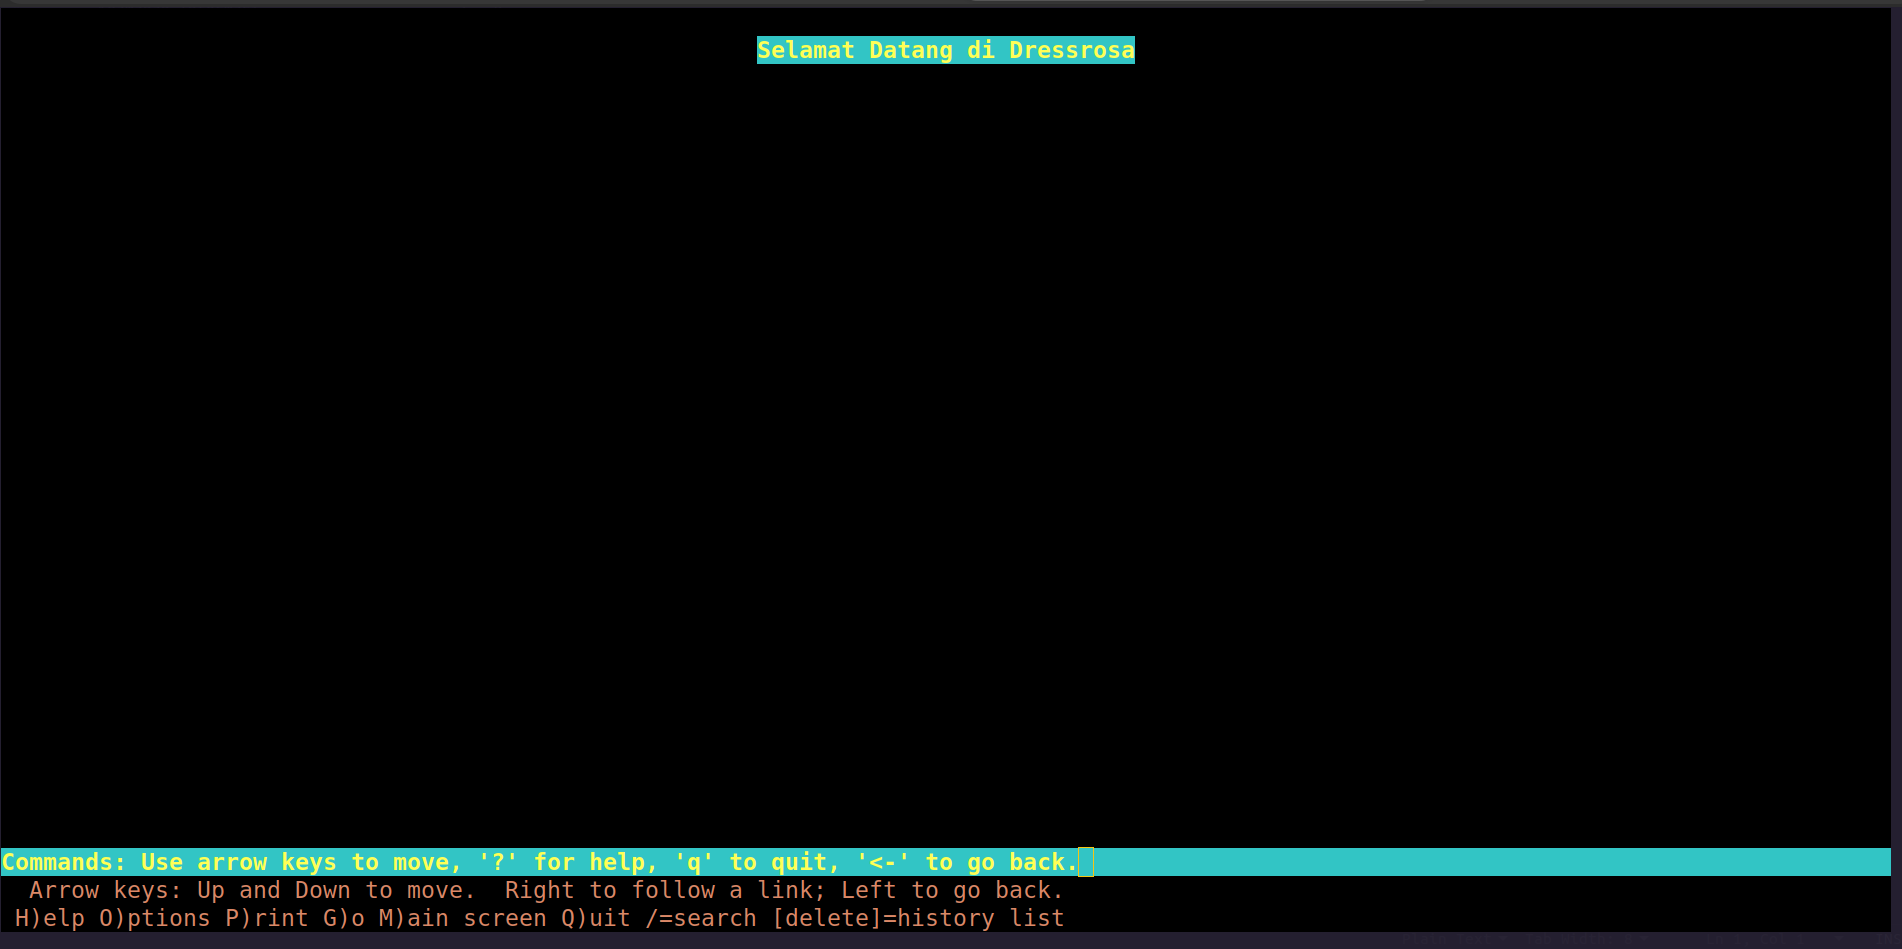
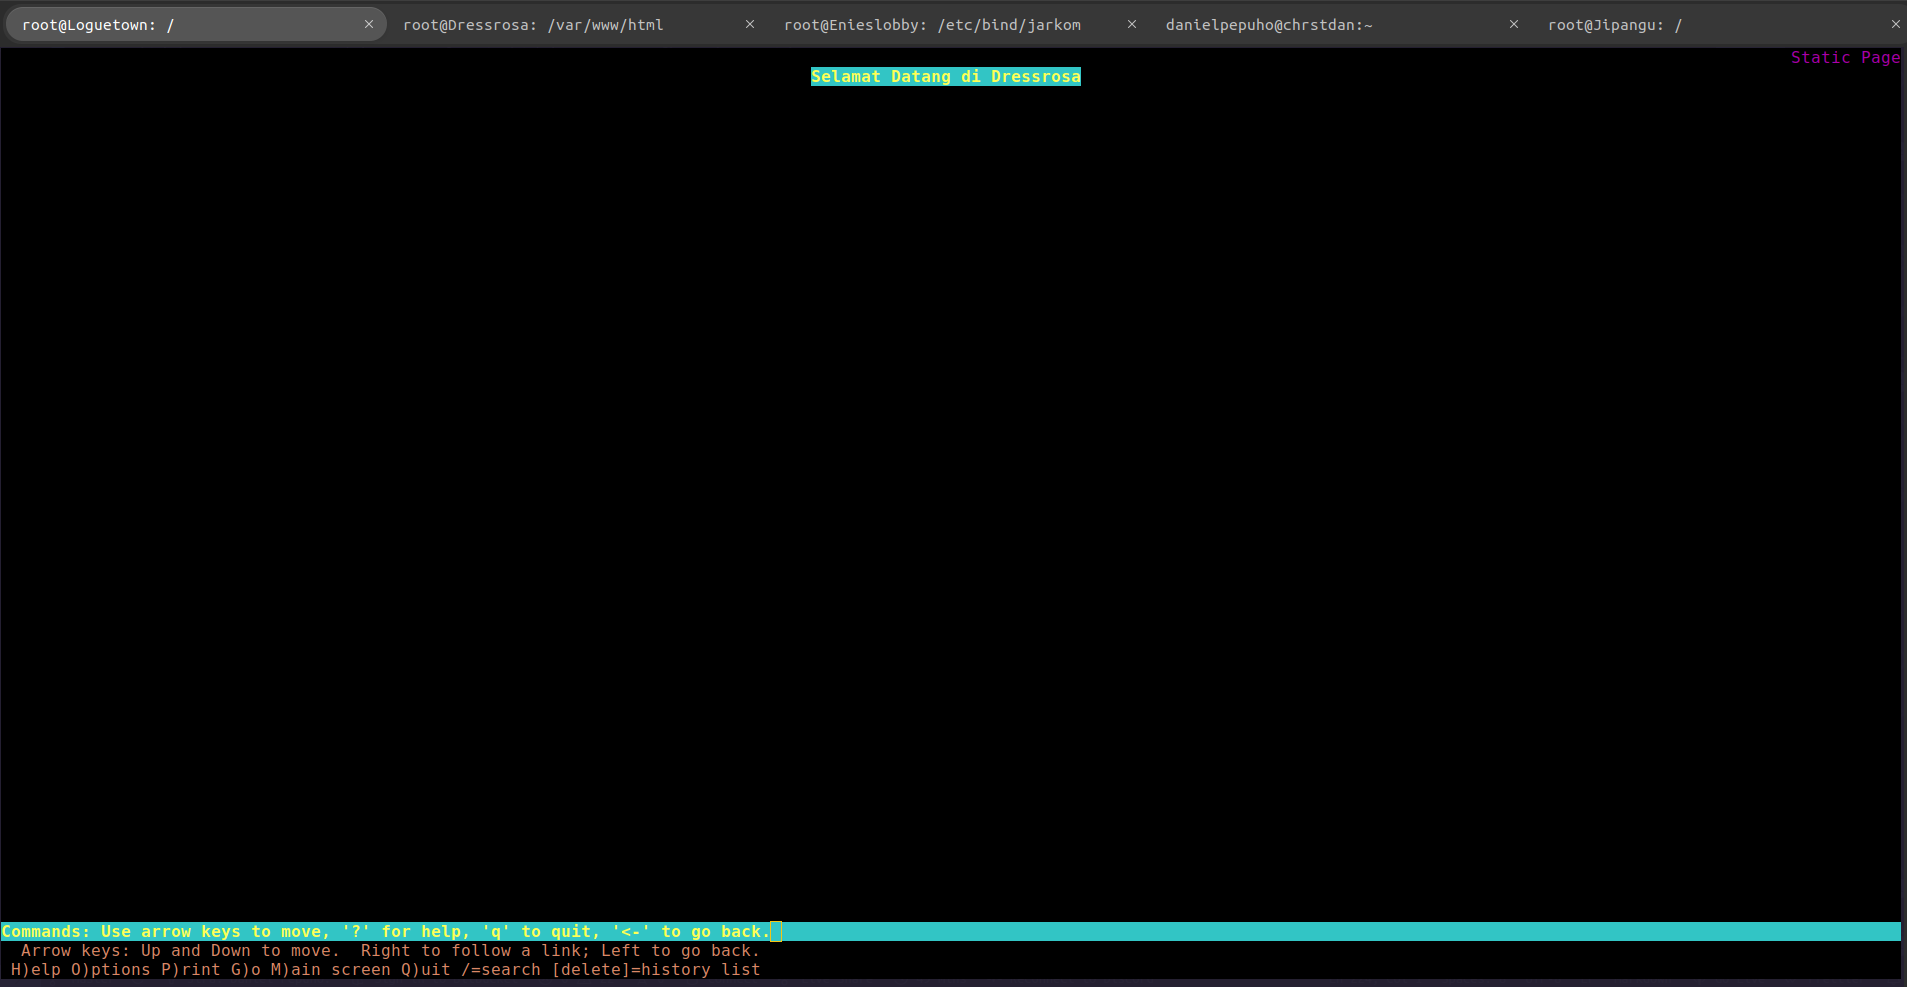
chore: analisa log

Changed region(s): [[0.0, 0.0, 1.0, 1.0]]

diff --git a/Modul-3/Reverse Proxy/README.md b/Modul-3/Reverse Proxy/README.md
@@ -99,20 +99,32 @@ Step 2 - Cek menggunakan lynx
 
 ![Lynx](img/lynx-nginx-1.png)
 
-Step 3 - Lakukan pengujian dengan membuat file index.html di direktori `/var/www/html`.
+#### A. Membuat Halaman Statis
 
-```bash
-<h1>Selamat Datang di Dressrosa</h1>
+Step 1 - Masuk ke `/var/www/html`, lalu buat buat suatu file HTML baru dengan nama `index.html`. Silahkan gunakan text editor yang ada seperi nano atau vim.
+
+```html
+!DOCTYPE html>
+<html lang="en">
+<head>
+    <meta charset="UTF-8">
+    <meta name="viewport" content="width=device-width, initial-scale=1.0">
+    <title>Static Page</title>
+</head>
+<body>
+    <h1>Selamat Datang di Dressrosa</h1>
+</body>
+</html>
 ```
 
-Step 4 - Ganti `server name` di `/etc/nginx/sites-available/default` dengan domain utama yang telah dibuat sebelumnya di
+Step 2 - Ganti `server name` di `/etc/nginx/sites-available/default` dengan domain utama yang telah dibuat sebelumnya di
 [modul persiapan](../prerequisite.md).
 
 ```bash
 server_name jarkom.site;
 ```
 
-Step 4 - Lakukan pengujian lagi, maka akan muncul halaman yang berbeda dari halaman sebelumnya.
+Step 3 - Lakukan pengujian lagi, maka akan muncul halaman yang berbeda dari halaman sebelumnya.
 
 ```bash
 lynx jarkom.site/index.html
@@ -120,7 +132,7 @@ lynx jarkom.site/index.html
 
 ![Lynx PHP](img/lynx-nginx-3.png)
 
-### 2.2.3 Integrasi dengan PHP
+#### B. Membuat Halaman Dinamis Menggunakan PHP
 
 Step 1 - Masih di Dressrosa, coba lakukan instalasi PHP
 
@@ -130,15 +142,49 @@ apt-get install php php-fpm
 
 Step 2 - Buat script sederhana menggunakan PHP
 
-Masuk ke direktori `/var/www/html`, lalu buat file index.php:
+Masuk ke direktori `/var/www/html`, lalu buat file `index.php`:
 
 ```php
-<?php
-$hostname = gethostname();
+<!DOCTYPE html>
+<html lang="en">
+<head>
+    <meta charset="UTF-8">
+    <meta name="viewport" content="width=device-width, initial-scale=1.0">
+    <title>Dynamics Page</title>
+    <link rel="stylesheet" href="style.css">
+</head>
+<body>
+    <div class="container">
+        <center>
+            <?php
+                $hostname = gethostname();
+                echo "Hello World!<br>";
+                echo "Selamat datang di: $hostname<br>";
+            ?>
+        </center>
+    </div>
+</body>
+</html>
+```
 
-echo "Hello World!<br>";
-echo "Selamat datang di: $hostname<br>";
-?>
+Step 3 - Masih di direktori yang sama coba buat file CSS dengan nama `style.css`
+
+```css
+body {
+    display: flex;
+    align-items: center;
+    height: 100vh;
+    margin: 0;
+    font-family: Arial, sans-serif;
+}
+
+.container {
+    text-align: center;
+    max-width: 600px;
+    padding: 20px;
+    border: 1px solid #ccc;
+    background-color: #f9f9f9;
+}
 ```
 
 Step 3 - Edit default file nginx di `/etc/nginx/sites-available/default`
@@ -174,6 +220,38 @@ lynx jarkom.site/index.php
 ```
 
 ![Lynx PHP](img/lynx-nginx-2.png)
+
+#### Kesimpulan
+
+Dari dua percobaan diatas, yaitu dengan menggunakan halaman statis dan dinamis dapat disimpulkan bahwa:
+
+- `Proses di sisi server` -  Halaman dinamis memerlukan pemrosesan di sisi server sebelum konten dikirim ke browser. Ini termasuk eksekusi kode PHP atau bahkan pemanggilan data dari database. Proses ini membutuhkan waktu tambahan dibandingkan dengan sekadar mengirim atau menampilkan halaman statis.
+
+- `Ukuran respon` - Jika halaman dinamis memuat banyak data (CSS, HTML, JavaScript, dll) atau memerlukan query ke database, hal ini dapat mempengaruhi waktu pemuatan. Ukuran respon yang besar memerlukan lebih banyak waktu untuk mentransfer melalui jaringan.
+
+Mari kita lihat perbandingan respon dari masing-masing halaman di `access log` Nginx
+
+- Halaman Statis
+
+```bash
+cat /var/log/nginx/access.log | grep 'index.html'
+```
+
+```bash
+Client IP               Date                 HTTP Method                HTTP Status     Respone Size(byte)  Referer     Detailed user agent info.
+192.168.1.3 - - [02/Nov/2023:18:20:25 +0700] "GET /index.html HTTP/1.0"    200             246               "-" "Lynx/2.8.9dev.16 libwww-FM/2.14 SSL-MM/1.4.1 GNUTLS/3.5.17"
+```
+
+- Halaman Dinamis
+
+```bash
+Client IP               Date                 HTTP Method                HTTP Status     Respone Size(byte)      Referer                  Detailed user agent info.
+192.168.1.3 - - [02/Nov/2023:18:24:49 +0700] "GET /index.php HTTP/1.0"     200              428            "http://jarkom.site/index.php" "Lynx/2.8.9dev.16 libwww-FM/2.14 SSL-MM/1.4.1 GNUTLS/3.5.17"
+```
+
+![Meme application-without-logs](img/application-without-logs.jpg)
+
+Dapat disimpulkan respone size pada halaman dinamis cukup besar, karena membutuhkan beberapa proses (eksekusi kode PHP, pemanggilan file CSS, dll)
 
 ### 2.2.4 Konfigurasi Reverse Proxy
 
